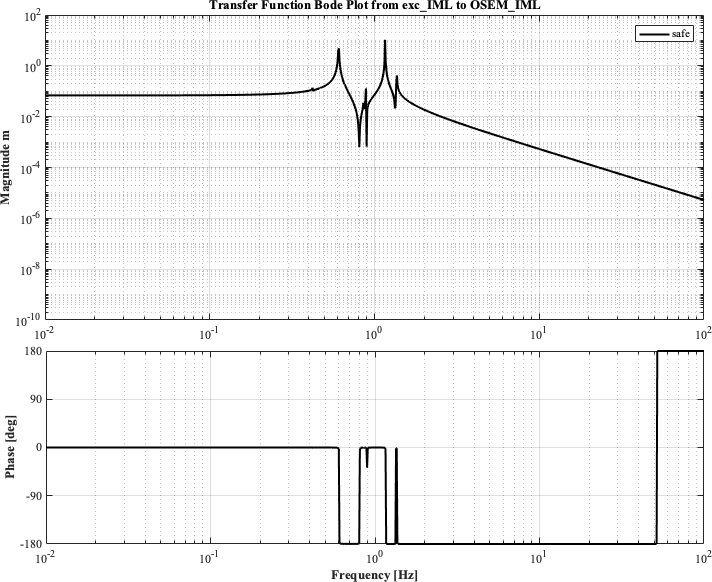
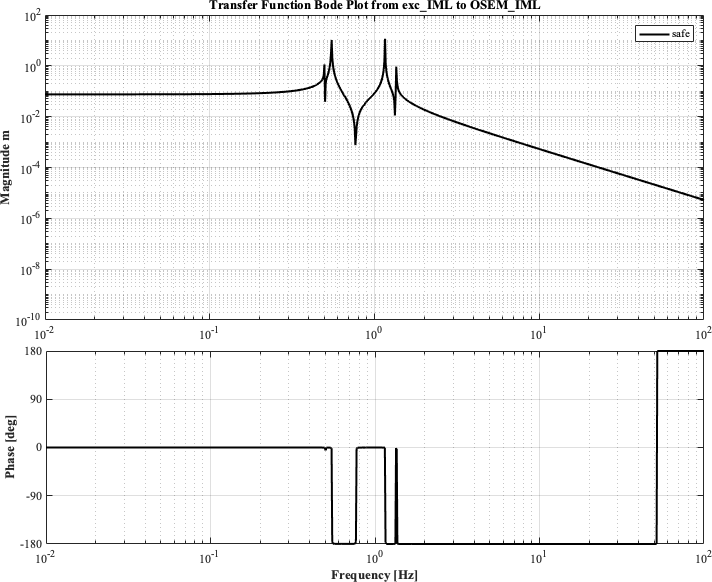
Compliance of PRM was consistent with the model.

Changed region(s): [[0.0618, 0.0619, 0.5253, 0.2474], [0.4635, 0.7423, 0.5562, 0.9278], [0.5253, 0.0928, 0.5562, 0.1546]]

diff --git a/example_compare_tf.py b/example_compare_tf.py
@@ -85,10 +85,10 @@ def plot_compliance(optic,stage,dofs):
 
 
 if __name__=='__main__':
-    plot_compliance('PR3','SF',['GAS'])
-    plot_compliance('PR3','BF',['GAS'])    
-    plot_compliance('PR3','BF',['L','T','V'])
-    plot_compliance('PR3','BF',['R','P','Y'])    
-    plot_compliance('PR3','IM',['L','T','V'])
-    plot_compliance('PR3','IM',['R','P','Y'])
-    plot_compliance('PR3','TM',['L','P','Y'])
+    plot_compliance('PRM','SF',['GAS'])
+    plot_compliance('PRM','BF',['GAS'])    
+    plot_compliance('PRM','BF',['L','T','V'])
+    plot_compliance('PRM','BF',['R','P','Y'])    
+    plot_compliance('PRM','IM',['L','T','V'])
+    plot_compliance('PRM','IM',['R','P','Y'])
+    plot_compliance('PRM','TM',['L','P','Y'])

diff --git a/models/example.m b/models/example.m
@@ -8,7 +8,7 @@ close all;  % Close plot windows
 addpath('../utils');
 %optic = 'ETMX';
 %optic = 'BS';
-optic = 'PR3';
+optic = 'PRM';
 
 %% 1. Import susmodel from SUMCON
 addpath('./sumcon/matlab');

diff --git a/measurements/PRM/README.md b/measurements/PRM/README.md
@@ -1,0 +1,51 @@
+# PRM
+## Abobut this directory
+
[1 lines of base64/hex data omitted]
+- Details are described in [klog#13540](http://klog.icrr.u-tokyo.ac.jp/osl/?r=13540)
+
+## Files
+
+Files in this directory were renamed as bellow after coiped from the original directory.
+
+|Original Name| Current Name|
+|:---|:---|
+|README.md|This file.|
+|PRM_SFGAS_exc_200314_1584147493.xml|PRM_SFGAS.xml|
+|PRM_BFGAS_exc_200314_1584147420.xml|PRM_BFGAS.xml|
+|PRM_BFL_exc_200314_1584146734.xml|PRM_BFL.xml|
+|PRM_BFP_exc_200314_1584146953.xml|PRM_BFP.xml|
+|PRM_BFR_exc_200314_1584147026.xml|PRM_BFR.xml|
+|PRM_BFT_exc_200314_1584146807.xml|PRM_BFT.xml|
+|PRM_BFV_exc_200314_1584146880.xml|PRM_BFV.xml|
+|PRM_BFY_exc_200314_1584147099.xml|PRM_BFY.xml|
+|PRM_IML_exc_200314_1584144508.xml|PRM_IML.xml|
+|PRM_IMP_exc_200314_1584144824.xml|PRM_IMP.xml|
+|PRM_IMR_exc_200314_1584144930.xml|PRM_IMR.xml|
+|PRM_IMT_exc_200314_1584144613.xml|PRM_IMT.xml|
+|PRM_IMV_exc_200314_1584144719.xml|PRM_IMV.xml|
+|PRM_IMY_exc_200314_1584145035.xml|PRM_IMY.xml|
+|PRM_TML_exc_200314_1584154595.xml|PRM_TML.xml|
+|PRM_TMP_exc_200314_1584154668.xml|PRM_TMP.xml|
+|PRM_TMY_exc_200314_1584154741.xml|PRM_TMY.xml|
+|PRM_BFGAS_exc_200314_1584145171.xml|not copied|
+|PRM_BFL_exc_200314_1584145339.xml|not copied|
+|PRM_BFP_exc_200314_1584145558.xml|not copied|
+|PRM_BFR_exc_200314_1584145631.xml|not copied|
+|PRM_BFT_exc_200314_1584145412.xml|not copied|
+|PRM_BFV_exc_200314_1584145485.xml|not copied|
+|PRM_BFY_exc_200314_1584145704.xml|not copied|
+|PRM_SFGAS_exc_200314_1584145244.xml|not copied|
+|PRM_TMLLOCK_exc_200314.xml|not copied|
+|PRM_TML_exc_200314_1584144266.xml|not copied|
+|PRM_TML_exc_200314_1584146464.xml|not copied|
+|PRM_TML_exc_200314_1584147696.xml|not copied|
+|PRM_TML_exc_200314_diag.xml|not copied|
+|PRM_TMP_exc_200314_1584144339.xml|not copied|
+|PRM_TMP_exc_200314_1584146537.xml|not copied|
+|PRM_TMP_exc_200314_1584147769.xml|not copied|
+|PRM_TMP_exc_200314_1584147769_2.xml|not copied|
+|PRM_TMY_exc_200314_1584144412.xml|not copied|
+|PRM_TMY_exc_200314_1584146610.xml|not copied|
+|PRM_TMY_exc_200314_1584147842.xml|not copied|
+|PRM_TMY_exc_200314_diag.xml|not copied|

diff --git a/measurements/README.md b/measurements/README.md
@@ -15,7 +15,7 @@
 |SRM | --- |
 |SR2 | --- |
 |SR3 | --- |
-|PRM | --- |
+|PRM | [klog#13540](http://klog.icrr.u-tokyo.ac.jp/osl/?r=13540) |
 |PR2 | --- |
 |PR3 | [klog#8634](http://klog.icrr.u-tokyo.ac.jp/osl/?r=8634)|
 |MCE | --- |
